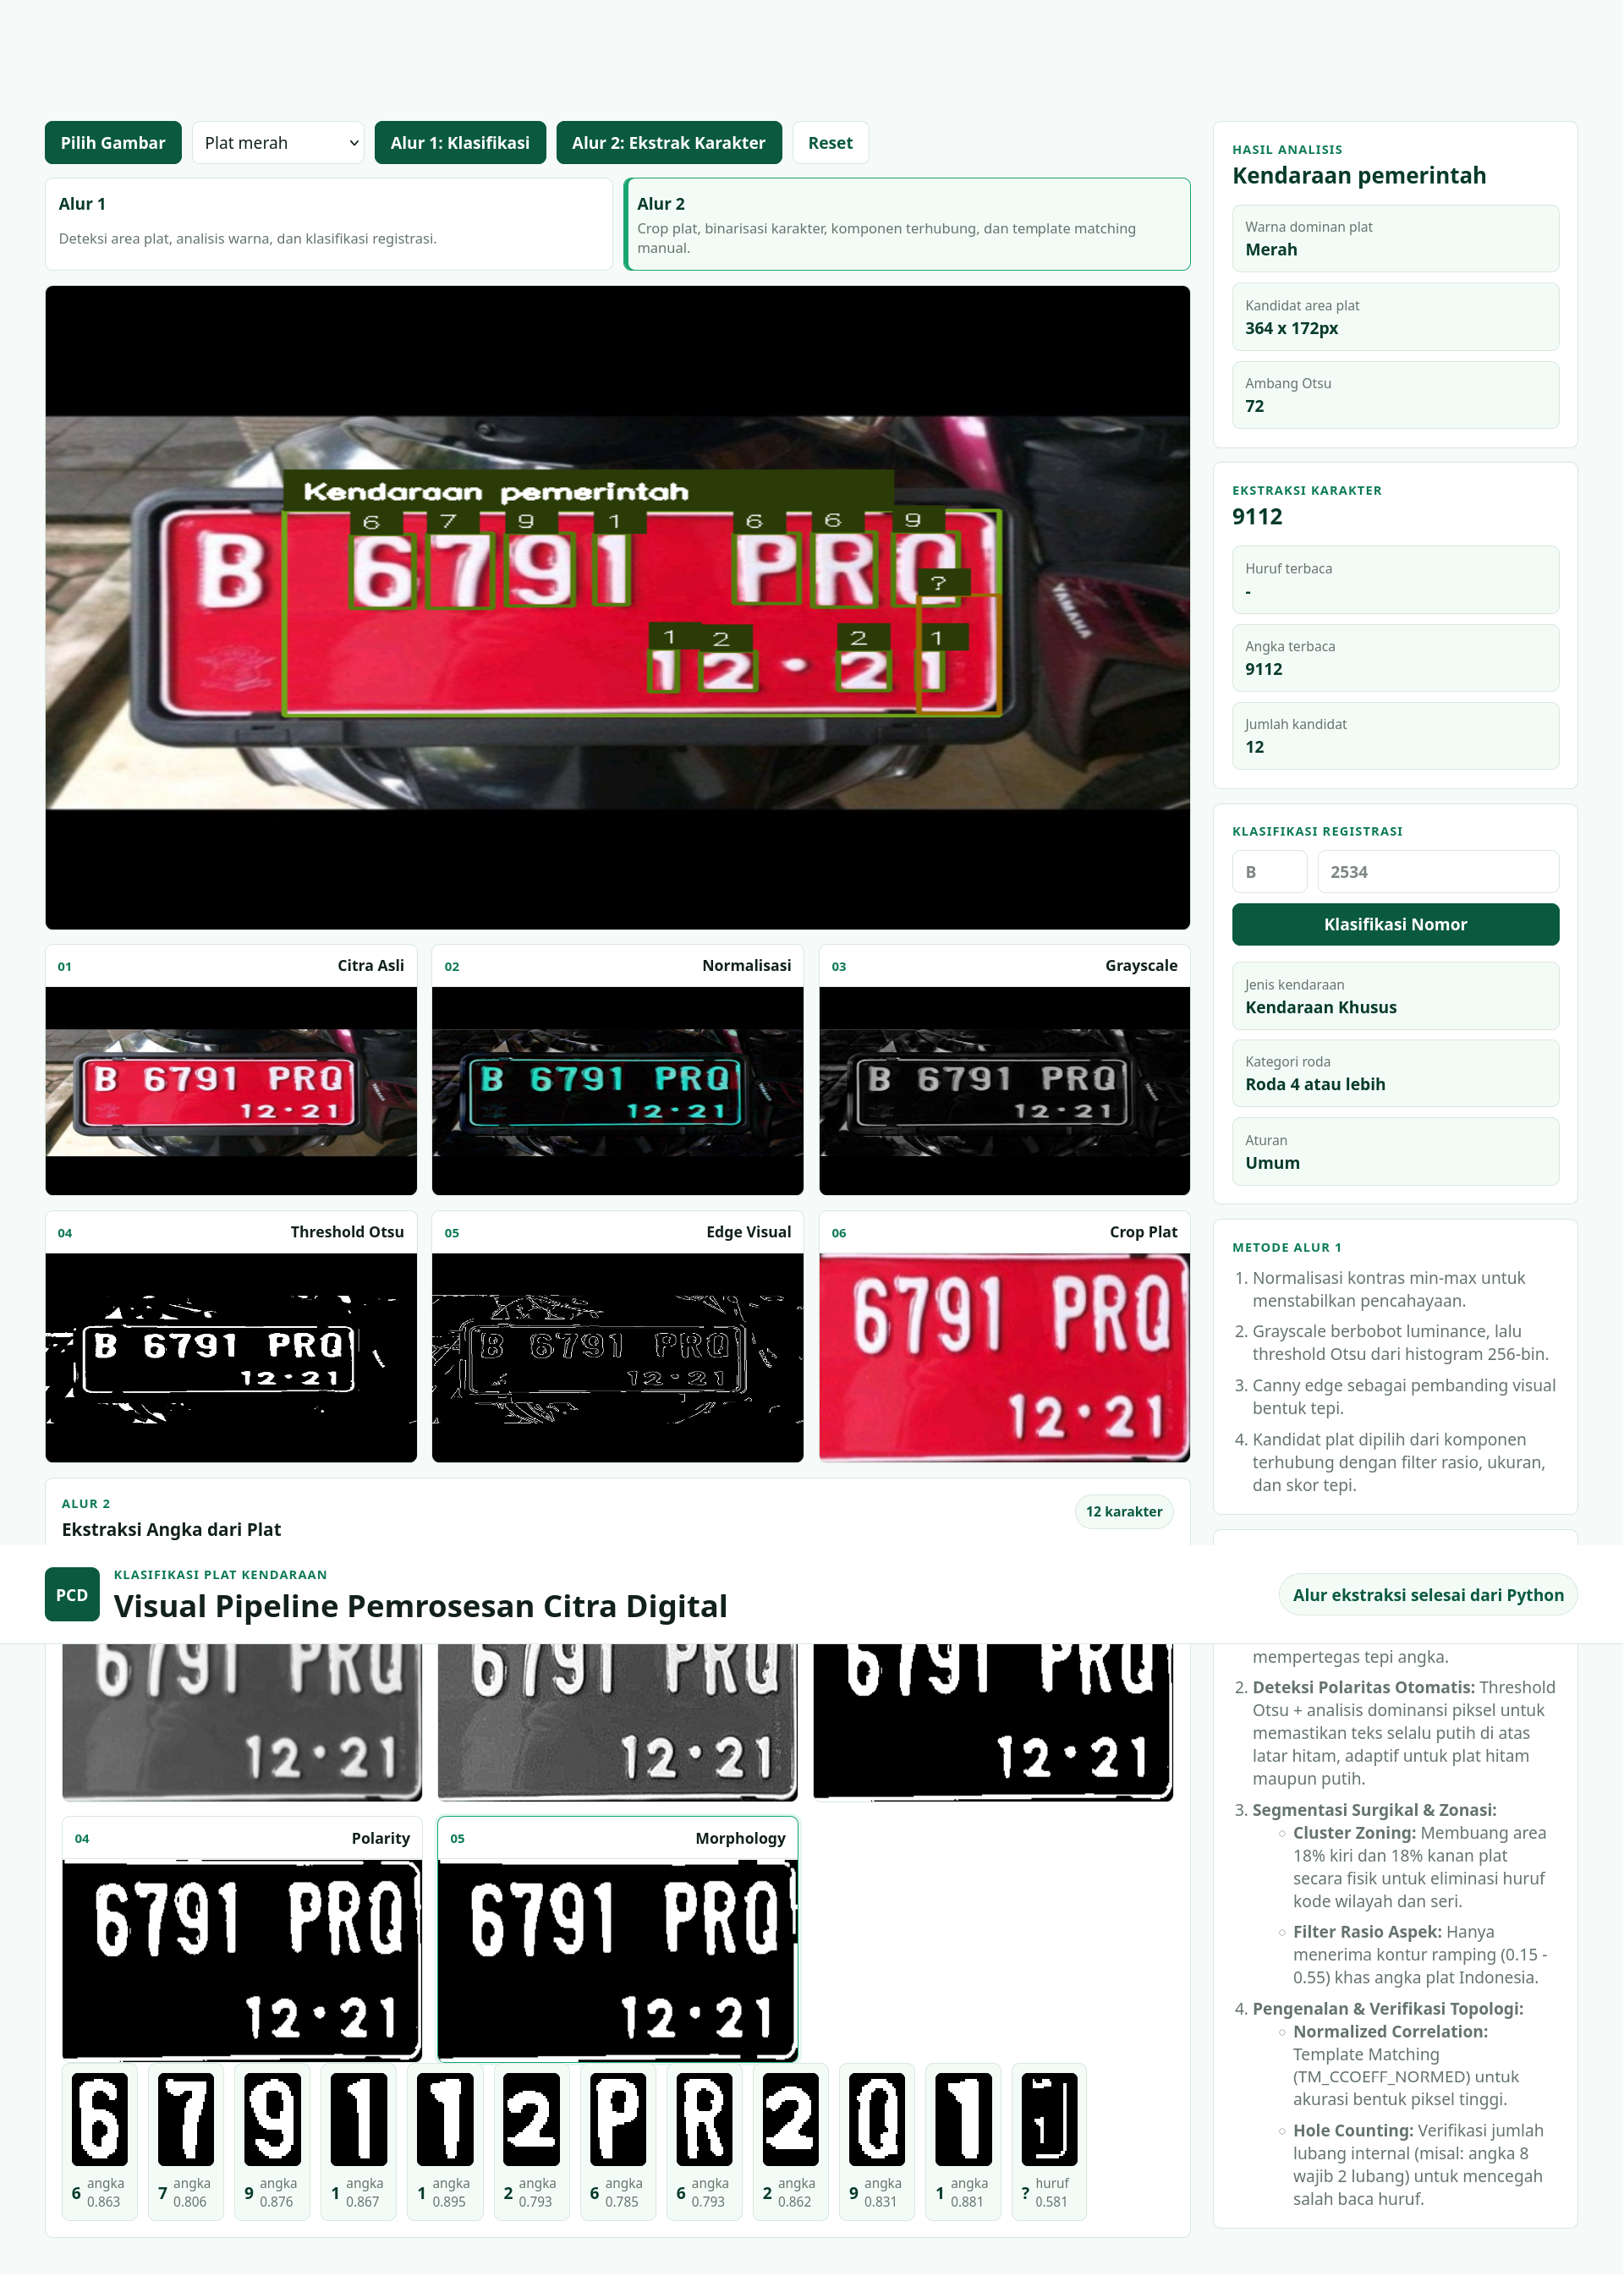
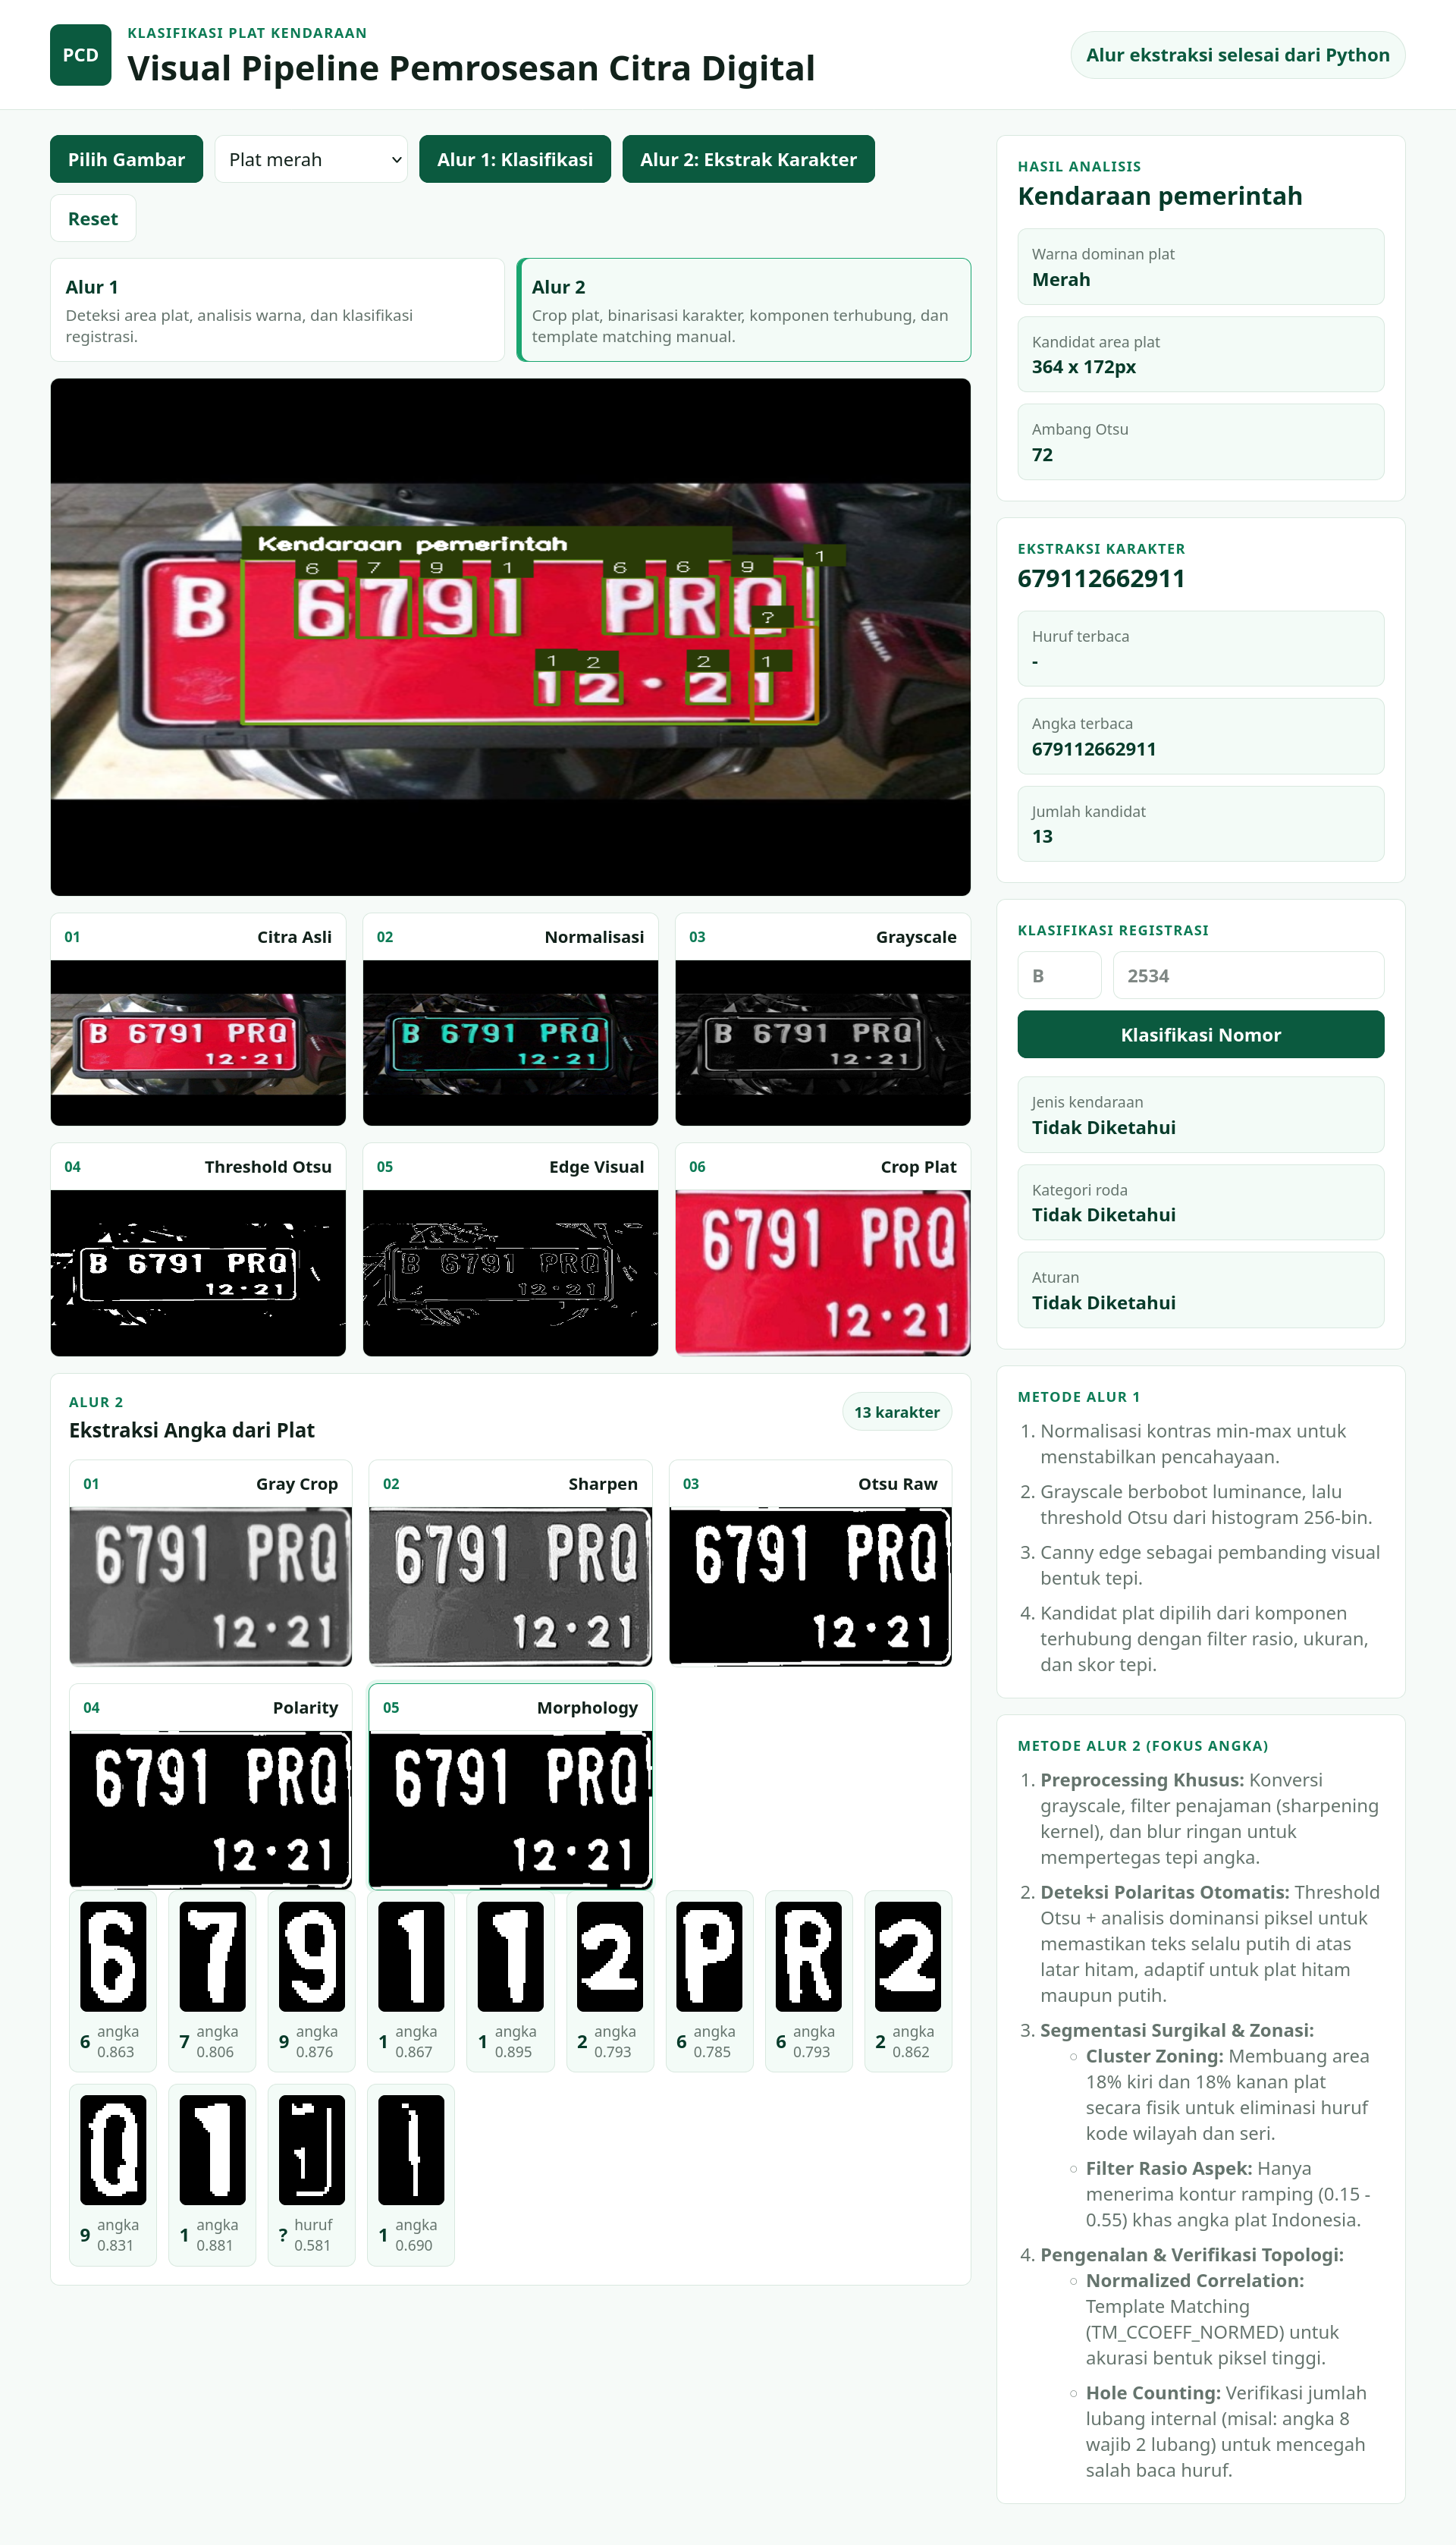
plat angka sudah terdeteksi, tinggal huruf

diff --git a/character_segmentation.py b/character_segmentation.py
@@ -48,17 +48,18 @@ def filter_character_contours(contours, plate_shape):
         aspect_ratio = w / float(h)
         area = cv.contourArea(c)
         
-        # HEURISTIK DIGIT (DILONGGARKAN UNTUK MEMASTIKAN SEMUA ANGKA TERTANGKAP)
-        # Tinggi minimal diturunkan ke 15% untuk menangkap angka yang mungkin terdistorsi
-        if h > plate_h * 0.15 and h < plate_h * 0.95:
-            # Aspect ratio fleksibel (0.1 - 0.9)
+        # HEURISTIK DIGIT (DIPERKETAT KEMBALI)
+        # Tinggi minimal 30% untuk menghindari deteksi noise kecil
+        if h > plate_h * 0.30 and h < plate_h * 0.95:
+            # Aspect ratio fleksibel (0.1 - 0.9) - menghindari objek terlalu lebar/tipis
             if 0.1 <= aspect_ratio <= 0.9: 
-                if area > 10 and w >= 3:
-                    # Ambil hampir seluruh lebar plat (5% - 95%)
+                # Area minimal disesuaikan agar tidak menangkap noise kecil
+                if area > 100 and w >= 5:
+                    # Ambil lebar plat yang lebih relevan
                     x_rel = x / plate_w
                     if 0.05 <= x_rel <= 0.95: 
-                        # Filter posisi Y (longgar: 85%)
-                        if y < plate_h * 0.85:
+                        # Filter posisi Y (lebih ketat)
+                        if y < plate_h * 0.90:
                             filtered_contours.append(c)
                     
     return filtered_contours

diff --git a/plate_processor.py b/plate_processor.py
@@ -12,7 +12,7 @@ def process_plate_image(plate_crop):
         return {"success": False, "message": "Gambar plat kosong."}
         
     # 1. Segmentasi Karakter
-    chars, char_thresh = segment_characters(plate_crop)
+    chars, char_thresh, stages = segment_characters(plate_crop)
     if not chars:
         return {"success": False, "message": "Karakter gagal disegmentasi dari plat. Pastikan gambar jelas."}
         